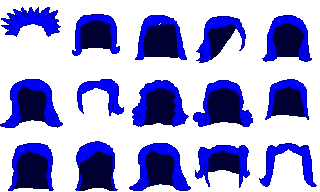
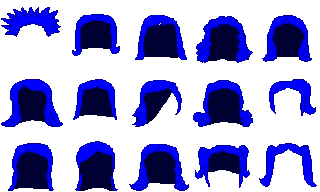
Gender Basics
Gender now effects name and hairstyle. That might be all the major aspects of character generation DONE! Now to make it look better and really nail the visuals!

diff --git a/Assets/Source/UI/CharacterCard.cs b/Assets/Source/UI/CharacterCard.cs
@@ -11,6 +11,7 @@ public class CharacterCard : MonoBehaviour
     [SerializeField] SpriteRenderer portraitFrame;
     [SerializeField] SpriteRenderer portrait;
     [SerializeField] Material drawMat;
+    [SerializeField] SpriteRenderer flag;
 
     [SerializeField] SpriteRenderer[] simpleIndexBadges;
     [SerializeField] CPD_Type[] simpleIndexOrder;
@@ -55,8 +56,9 @@ public class CharacterCard : MonoBehaviour
         drawMat.SetInt("_JobIdx", c.getVariantIndexofCharacteristic(CPD_Type.Job) + (weight * 64));
 
         int Hairlen = c.getCategoryIndexofCharacteristic(CPD_Type.HairStyle);
+        int gender = c.getCategoryIndexofCharacteristic(CPD_Type.Gender);
         drawMat.SetInt("_HairLength", Hairlen);
-        (ulong s, int v) crv4 = CharRandomValue.randomHairIndex(crv3.s, Hairlen);
+        (ulong s, int v) crv4 = CharRandomValue.randomHairIndex(crv3.s, Hairlen, gender);
         drawMat.SetInt("_HairIdx", crv4.v);
 
         (ulong s, Color v) crv5 = c.getColorField(crv4.s, CPD_Type.HairColor);
@@ -82,8 +84,8 @@ public class CharacterCard : MonoBehaviour
                 cityAbbrText.enabled = true;
                 cityAbbrText.text = cityAbbr;
 
-                int flag = CountryMap.instance.getCode(locName[1]);
-                drawMat.SetInt("_FlagIdx_l2", flag);
+                int flagCode = CountryMap.instance.getCode(locName[1]);
+                flag.material.SetFloat("Ref_MatIndex", flagCode);
                 break;
             default:
                 break;

diff --git a/Assets/Source/RosterGen/CharRandomValue.cs b/Assets/Source/RosterGen/CharRandomValue.cs
@@ -29,9 +29,25 @@ public static class CharRandomValue
     //Return a random hair index. It depends on the hair length
     //(...may later depend on sex)
     // TODO is this even accurate anymore? check the hair file...
-    public static (ulong, int) randomHairIndex(ulong seed, int HairLen)
+    public static (ulong, int) randomHairIndex(ulong seed, int HairLen, int gender)
     {
-        return RangedSeedRandomizer(seed, 0, hairLengthSizes[HairLen]);
+        // Not really a better way to do this than by hardcoding...too specific.
+        int start = 0;
+        int stop = hairLengthSizes[HairLen];
+        switch (gender)
+        {
+            case 0:
+                if (HairLen == 0) stop = 16;
+                else if (HairLen == 1) stop = 17;
+                else if (HairLen == 2) stop = 8;
+                break;
+            case 1:
+                if (HairLen == 0)      start = 7;
+                else if (HairLen == 1) start = 13;
+                else if (HairLen == 2) start = 1;
+                break;
+        }
+        return RangedSeedRandomizer(seed, start, stop);
     }
 
     private static List<string> getNames(string path)
